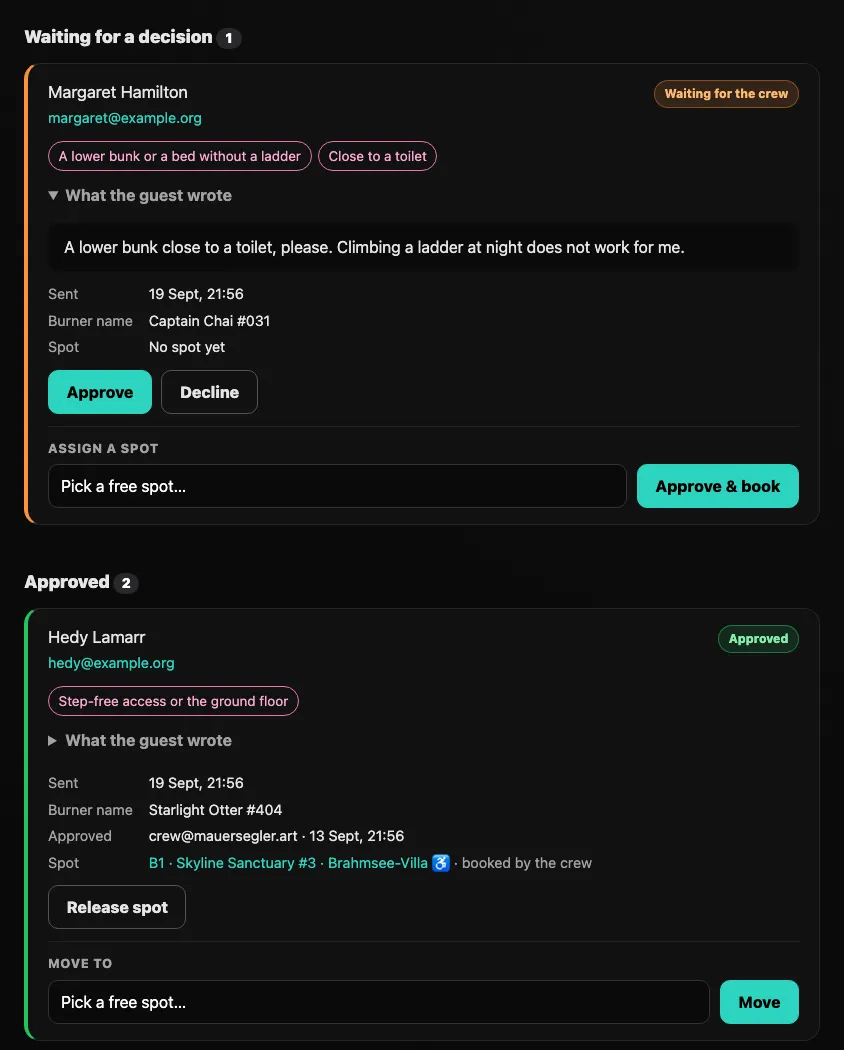
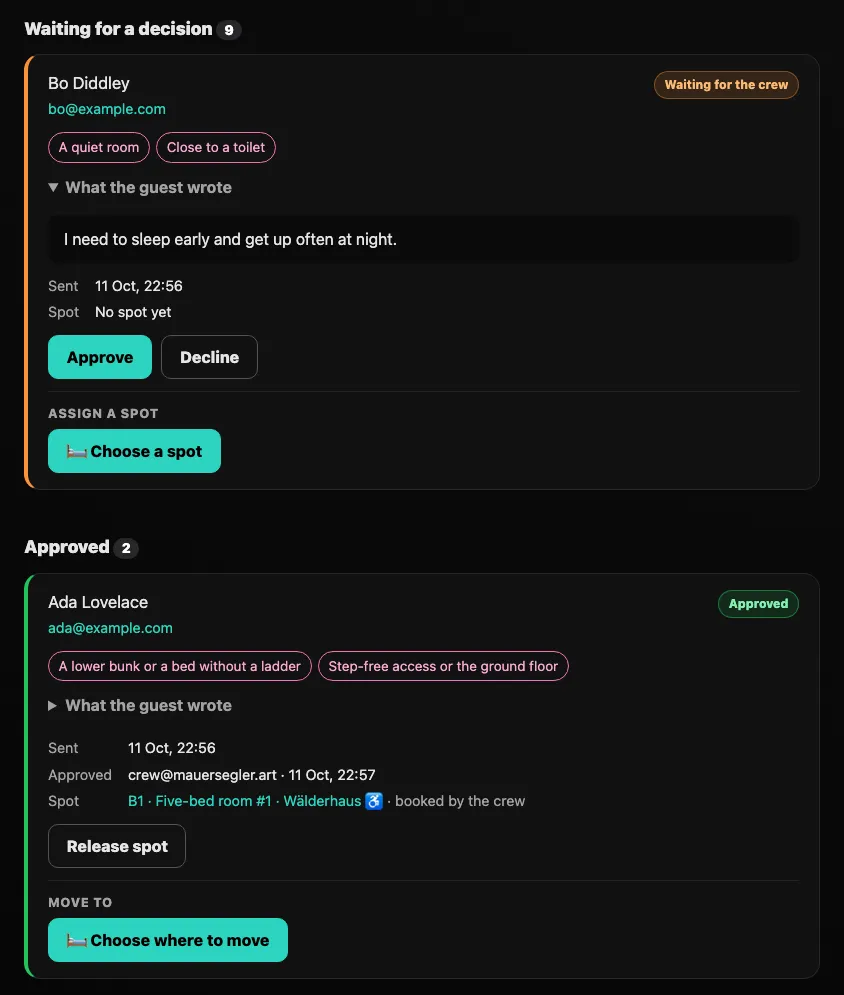
docs: the spot picker and booking a whole group into one room
The admin guide describes the spot picker (search, chips, best fits,
houses → rooms → spots), the group picker with its suggestions, fit and
needs badges and "Book N spots", the plan rows with Change and the swap,
and new screenshots of the requests page and both pickers. Testing and
layout docs name the new tests and the group of five; the guide's group
limit and the "Rules the app keeps" bullet go with the approval-rules
branch.

diff --git a/docs/admin/special-needs.md b/docs/admin/special-needs.md
@@ -24,7 +24,7 @@ On a room page, <kbd>♿ SPECIAL</kbd> marks a spot as a special-needs spot; <kb
 - **Nobody books it on the guest pages**, not even admins signed in with a ticket code. Guests see it like a locked spot, as *Blocked by admin* (violet, with *Not available* under it), and never learn why; a booking sent anyway is refused by the server (*This spot is not available.*). Once a guest has it, it shows as an ordinary occupied spot with their burner name: nobody can tell who has special needs.
 - **Only the crew books it**, here on the requests page: for one request, or for the members of a group. That is the difference to 🔒 *locked*: an admin with a ticket code can still book a locked spot on the room page, never a ♿ one.
 - **It never counts as free**, like a locked spot.
-- **It comes first** in the spot list of a request that asks for something the guest needs; for a request that is only about a project or a group it comes last (see [Decide and book](#_3-decide-and-book)).
+- **It stands out in pink** in the [spot picker](#the-spot-picker), and it comes first among the *Best fits* of a request that asks for something the guest needs; for a request that is only about a project or a group it counts against the spot (see [Decide and book](#_3-decide-and-book)).
 - **Templates keep it** (`"is_special": true` on the spot, see [Layout templates](./templates#file-format)).
 
 Mark the spots before booking opens. Special-needs spots that nobody needs at the end: switch them back to <kbd>♿ NORMAL</kbd> one by one, and guests can book them. The feature *♿ Wheelchair accessible* of a house or room is something else: it describes the place for guests and keeps no spot free.
@@ -42,7 +42,7 @@ Mark the spots before booking opens. Special-needs spots that nobody needs at th
 Only *free* spots are offered for requests. With nothing marked yet, the box says *No spot is marked ♿ yet. Mark spots with ♿ SPECIAL on the room pages: no guest can book them, and they are offered first here.*
 
 ::: tip Fill in the details first
-Which spot fits which need comes from the layout: the **bed type** of a spot and the **features** of its room and house (see [Houses, rooms & spots](./camp-layout#house-details)). A lower bunk in a step-free room with toilets in the building is what a request asking for all three needs; stacked [bunk beds](./camp-layout#bunk-beds) mark their lower and upper level by themselves. Spots nobody described can still be assigned — the list just can't tell you what they answer. What a project asks for — a room of its own, spots close together — is yours to match: the [group planner](#groups) helps with that.
+Which spot fits which need comes from the layout: the **bed type** of a spot and the **features** of its room and house (see [Houses, rooms & spots](./camp-layout#house-details)). A lower bunk in a step-free room with toilets in the building is what a request asking for all three needs; stacked [bunk beds](./camp-layout#bunk-beds) mark their lower and upper level by themselves. Spots nobody described can still be assigned — the picker just can't tell you what they answer. What a project asks for — a room of its own, spots close together — is yours to match: the [group planner](#groups) helps with that.
 :::
 
 ## 2. Open requests
@@ -58,7 +58,7 @@ Every switch goes to the crew group with the admin's e-mail address.
 
 <kbd>♿ Special needs</kbd> in the admin menu, with the number of requests waiting for a decision. On top, the [♿ Special-needs spots](#_1-mark-special-needs-spots) box and the [groups](#groups); below them the requests, grouped into *Waiting for a decision*, *Approved* and *Declined*.
 
-![A waiting request with Approve, Decline and Approve & book, and an approved one with the spot the crew booked](../assets/screenshots/admin-requests.webp)
+![A waiting request with Approve, Decline and Choose a spot, and an approved one with the spot the crew booked](../assets/screenshots/admin-requests.webp)
 
 Each request shows:
 
@@ -74,13 +74,27 @@ The [guest list](./guests) shows for every ticket only *where* a request stands 
 | Button | What happens |
 | --- | --- |
 | <kbd>Approve</kbd> | The request is approved. A guest without a spot hears that the crew picks one; a guest who booked a spot themselves hears they keep it until you book a more fitting one. |
-| <kbd>Approve & book</kbd> · <kbd>Book</kbd> | Pick a free spot from the list and book it for the guest, right away, also in Staging Mode and after booking closed. For a request that asks for something the guest needs (or *something else*), the list starts with *♿ Special-needs spots (2 free)*, each marked ♿ (and 🔒 when locked), then *Other free spots*; for a request that is only about a project or a group, the ♿ spots come last, as *♿ Special-needs spots (kept for access needs)*. Deactivated spots never appear. Each spot says what it answers of **this** request — `B1 · Room 2 · Wälderhaus — ✓ a lower bunk or a bed without a ladder, ✓ step-free access or the ground floor` — and the best fits come first; `✗` marks a clear mismatch, like an upper bunk for someone who needs a lower one. An upper bunk is never *step-free access*, not even on the ground floor of a ♿ house — the ladder is a step — so it gets `✗` for that need as well. The project wishes, *something else* and the old *power socket* get neither `✓` nor `✗`: nothing in the layout answers them, so read what the guest wrote and pick by hand. A feature the crew switched off for one room or spot (*off here* in the [room editor](./camp-layout#room-details)) no longer counts for that spot either. When no ♿ spot is free, a line under the list says why: *♿ No special-needs spot is free right now: 3 marked — 1 booked by a guest, 1 blocked with TAKEN, 1 inactive. See “♿ Special-needs spots” above.* A waiting request is approved on the way. The guest gets a message with the spot and the booking pass. If the guest already holds a spot, the field reads **Move to** and the dialog *Move the guest?* says which spot becomes free. |
-| <kbd>Move</kbd> | Books another spot for the guest; the old one becomes free. |
+| <kbd>🛏 Choose a spot</kbd> → <kbd>Approve & book</kbd> · <kbd>Book</kbd> | Opens the [spot picker](#the-spot-picker): tap a free spot and press the button at its bottom to book it for the guest, right away, also in Staging Mode and after booking closed. The dialog *Book this spot for the guest?* asks first. A waiting request is approved on the way. The guest gets a message with the spot and the booking pass. Cancel the dialog and the card keeps the spot you picked, with <kbd>Approve & book</kbd> (or <kbd>Book</kbd>) to try again and <kbd>Change</kbd> to pick another one. |
+| <kbd>🛏 Choose where to move</kbd> → <kbd>Move here</kbd> | The same for a guest who already holds a spot: the picker shows it as *Now: …*, and the dialog *Move the guest?* says which spot becomes free. |
 | <kbd>Release spot</kbd> | The spot becomes free again (a special-needs spot stays one); the request stays approved, so book another one. The guest gets a message. Also offered for a spot the guest booked themselves: the dialog warns that releasing takes it away from them. |
 | <kbd>Decline</kbd> | The guest gets a message that the crew can't offer a special-needs spot: they keep a spot they booked themselves, or book like everyone else once booking opens. To decline a request whose spot you booked, release the spot first. |
-| <kbd>⋯</kbd> → <kbd>Approve after all</kbd> | On a declined card only, deliberately out of the way (a declined card has no other buttons): the request is approved after all (the guest gets the *approved* message), and the spot list comes back so you can book one. |
+| <kbd>⋯</kbd> → <kbd>Approve after all</kbd> | On a declined card only, deliberately out of the way (a declined card has no other buttons): the request is approved after all (the guest gets the *approved* message), and <kbd>🛏 Choose a spot</kbd> comes back so you can book one. |
 
-With no free spot left, the list says *No free spot left. Free or add one in the room editor.*
+With no free spot left, <kbd>🛏 Choose a spot</kbd> is greyed out and the card says *No free spot left. Free or add one in the room editor.*
+
+### The spot picker
+
+One sheet over the page with every free spot of the camp, house by house and room by room, so you see where you put someone instead of reading a list. On a phone it fills the screen.
+
+![The spot picker for one request: the search, the filter chips, the best fits and the houses with their rooms and spots, one spot picked](../assets/screenshots/admin-requests-picker.webp)
+
+- **On top:** whom the spot is for and what they ticked (pink for something they need, outlined for a project wish), *Now: …* when they hold a spot already, and — for a request with something the guest needs — why no ♿ spot is free, if none is: *♿ No special-needs spot is free right now: 3 marked — 1 booked by a guest, 1 blocked with TAKEN, 1 inactive.* (the [♿ box](#_1-mark-special-needs-spots) lists them all).
+- **Narrow it down:** a search for houses, rooms and spots (*walder 5* finds the rooms 5 of the Wälderhaus; case and accents don't matter), and chips that each show how many free spots they leave: *✓ Fits all they need* (only spots that answer everything the layout can tell of this request), *♿ Special-needs spots*, the wishes guests know from the map — *No ladder*, *Step-free*, *Toilets inside*, *Heated*, *Quiet*, only those some free spot answers — and one chip per house. Chips add up; *Show all* next to the search clears them. On a phone, and on a short laptop screen, each row of chips scrolls sideways.
+- **Best fits:** up to six spots that answer most of the request and clash with none of it, the best first; for a request with something the guest needs a free ♿ spot comes first when it fits as well. A request only a person can match (a project, a group only) gets no strip.
+- **The camp:** each house with its free spots (*41 free · ♿ 2*), each room as a card with *3 of 6 free*, its ♿ spots and the icons of what it offers (♿ ⬇ 🚻 🔥 🤫), and each free spot as a tile: its name, its bed, ♿ in pink for a special-needs spot, 🔒 when locked, and what it answers of **this** request — `✓ No ladder`, `✓ Step-free`; `✗` marks a clear mismatch, like an upper bunk for someone who needs a lower one, and such a tile is dimmed. A bunk bed whose two levels are both free is one tile with the upper level above the lower one. An upper bunk is never *step-free*, not even on the ground floor of a ♿ house — the ladder is a step. The project wishes, *something else* and the old *power socket* get neither `✓` nor `✗`: nothing in the layout answers them, so read what the guest wrote and pick by hand. A feature the crew switched off for one room or spot (*off here* in the [room editor](./camp-layout#room-details)) no longer counts for that spot. Deactivated and taken spots never appear.
+- **At the bottom:** the spot you tapped with what it answers, *Cancel*, and the button that takes it — <kbd>Approve & book</kbd>, <kbd>Book</kbd> or <kbd>Move here</kbd> on a request's card, <kbd>Use this spot</kbd> in a group's plan. Picking a ♿ spot for a request that needs none says *♿ A special-needs spot, kept for guests who need one.*
+
+<kbd>Esc</kbd>, ✕, *Cancel* or a tap next to the sheet close it without a change. Without JavaScript, each card shows a plain list of the free spots instead (the best fits first, ♿ spots marked).
 
 ### Groups
 
@@ -88,21 +102,29 @@ Guests who ask together share a **request group**: one of them starts it on the 
 
 The section **Groups 👥** sits above *Waiting for a decision*, one card per group:
 
-- **The header:** *👥 name*, *4 of 12 · code ABCD-EF23 · started …*, and chips for what is in it: *2 waiting*, *1 approved*, *1 declined*, *1 booked by the crew*, ♿ *2 with something they need* (pink, only when someone ticked a need) and 🎨 *project* (when someone asked for a room or for spots together). The card's left edge is orange while someone waits, green when someone is approved and nobody waits, grey otherwise.
+- **The header:** *👥 name*, *4 of 5 · code ABCD-EF23 · started …*, and chips for what is in it: *2 waiting*, *1 approved*, *1 declined*, *1 booked by the crew*, ♿ *2 with something they need* (pink, only when someone ticked a need) and 🎨 *project* (when someone asked for a room or for spots together). The card's left edge is orange while someone waits, green when someone is approved and nobody waits, grey otherwise.
 - **The members:** the name from the ticket list (or *Ticket without a name*) · 🔥 the burner name, the status, the spot (*booked by the crew* or *booked by the guest*) or *No spot yet*, <kbd>Details ↓</kbd> to the member's own card, and <kbd>⋯</kbd> → <kbd>Take out of group</kbd>.
 
 | Button | What happens |
 | --- | --- |
-| <kbd>Approve all waiting (2)</kbd> | Every waiting member is approved; each guest gets their own *approved* message. Members you already decided stay as they are. Then book their spots in the planner, or one by one. |
+| <kbd>Approve all waiting (2)</kbd> | Every waiting member is approved; each guest gets their own *approved* message. Members you already decided stay as they are. Then book their spots with the planner, or one by one. |
 | <kbd>Decline group</kbd> | Every waiting member, and every approved one without a spot the crew booked, is declined; each guest gets the *declined* message. Members whose spot the crew booked stay approved and are counted in the dialog: release their spot first. |
-| <kbd>Book 4 spots</kbd> | Books the spots picked in the planner (below). |
+| <kbd>🏠 Choose a room for the group</kbd> | Opens the spot picker for the whole group: put everyone into one room in one go (below). |
+| <kbd>Book 4 spots</kbd> | Books the spots of the plan (below). |
 | <kbd>⋯</kbd> → <kbd>Take out of group</kbd> | The request stays as it is, without the group. The guest sees that on their request page and gets no message. Their ticket can't join this group again, not even with its code — also not after withdrawing and sending a new request: the form says *You can't join this group. Please contact the crew.* |
 
-Each button asks first, and the group buttons only touch open requests. **Book spots for the group** is the planner at the bottom of the card:
+Each button asks first, and the group buttons only touch open requests. **Book spots for the group** is the planner at the bottom of the card. It starts with a plan, *Plan: Room 2 · Wälderhaus — 6 free (♿ 2) · fits all 5*: the snuggest place that fits everyone and gives every member what the layout can tell of their needs (a room before a whole house), else the place that fits everyone and answers most of those needs, else *Anywhere: the best free spot for each*. In that place, members with something they need choose first, each gets the best fitting free spot, a ♿ spot goes to a member who needs something and is avoided for the others, and in a whole house the group fills as few rooms as it can.
 
-- **Where:** lists the places the group could sleep: *Anywhere: the best free spot for each*, then the rooms that fit everyone, the snuggest first (`Room 2 · Wälderhaus — 6 free (♿ 2) · fits all 5`), then whole houses (`Wälderhaus, whole house — …`), then the rest, the roomiest first (`· too small`). A place that only fits everyone by giving ♿ spots to members who need nothing comes after the places that fit without, marked `· uses ♿`, so the first choice spares the ♿ spots when it can. Picking one fills in a proposal: members with something they need choose first, each gets the best fitting free spot there, a ♿ spot goes to a member who needs something and is avoided for the others, and in a house the group fills as few rooms as it can. The choice needs JavaScript; without it the page shows the proposal for the first place that fits everyone (or *Anywhere*).
-- **One row per member** with the same spot list as on the single cards, starting with *Keep as is*. Change any row by hand. A member whose spot the crew already booked shows *Keep … (booked by the crew)* and stays there unless you pick another spot; a declined member shows *Declined — not booked.* When everyone not declined already has a spot the crew booked, the planner says so and has no button.
-- <kbd>Book 4 spots</kbd> (the number of rows with a spot) asks *Book 4 spots for the group?* and lists who gets which spot, how many move from a spot they booked themselves and how many waiting requests are approved on the way; it says so when booking is closed. Each guest gets their own message with the booking pass. Rows left on *Keep as is* don't change.
+**Put the group into one room, in one go:** <kbd>🏠 Choose a room for the group</kbd> opens the [spot picker](#the-spot-picker) for the whole group. On top, who gets a spot (with what they need) and who keeps a spot the crew booked. *Suggested for 5* offers the three places that fit everyone — those where the plan answers every member's needs first, with *✓ needs met* or *needs: 1 of 2 met* under each — and *Anywhere: the best free spot for each*. Every room card says *fits all 5* (green), *fits all 5 · uses ♿* (pink: only by giving ♿ spots to members who need nothing) or *too small for 5*, and *✓ needs met* or *needs: 1 of 2 met* where everyone fits; the chip *Rooms for all 5* hides the rest. <kbd>Put the group here</kbd> on a room (or <kbd>Spread over the house</kbd> on a house) writes each member's name on the spot the plan gives them and lists who goes where at the bottom, with what each spot answers of theirs; a room that is too small places as many as it can and says *→ no spot left here* for the others. Then:
+
+- <kbd>Book 5 spots</kbd> books the plan right away: the dialog asks *Book 5 spots in Room 2 · Wälderhaus?* (or *… for the group?* when the spots are in several rooms) and names who gets which spot.
+- <kbd>Edit the plan</kbd> takes the plan into the card, to change single rows first.
+
+![The spot picker for a group: the suggested places, a room chosen with the members' names on its spots, and who goes where at the bottom](../assets/screenshots/admin-requests-group-picker.webp)
+
+**One row per member:** *→ B1 · Room 2 · Wälderhaus · ✓ No ladder* with <kbd>Change</kbd> and <kbd>✕</kbd>. <kbd>Change</kbd> opens the spot picker for that member alone; the spots of the other members carry their names (*→ Bo*), and picking one of them swaps the two. <kbd>✕</kbd> sets the row back to *Keep as is*. A member whose spot the crew already booked shows *Keeps … (booked by the crew)* and stays there unless you pick another spot for them; a declined member shows *Declined — not booked.* Once you change a row, the plan line says *· changed by hand*. When everyone not declined already has a spot the crew booked, the planner says so and has no button. Without JavaScript, each row is a plain list of the free spots, starting with *Keep as is*, filled with the plan.
+
+<kbd>Book 4 spots</kbd> (the number of rows with a spot) asks first and lists who gets which spot, how many move from a spot they booked themselves and how many waiting requests are approved on the way; it says so when booking is closed. Each guest gets their own message with the booking pass. Rows left on *Keep as is* don't change.
 
 Before anything is booked, the server checks every picked spot once more. A spot taken meanwhile, two members on one spot, a member who left the group or a declined member stop the whole booking, and nothing is booked (see [When something doesn't work](#when-something-doesn-t-work)). Then it books member by member, like <kbd>Book</kbd> on each card, so those spots are fixed like any spot the crew booked. If one fails on the way — a request withdrawn, a spot taken in the very last second — the others stay booked and a warning says *3 of 4 spots booked. Not booked: …* with the name and the reason: book the rest on their own cards.
 
@@ -153,7 +175,7 @@ What guests write is often **health data**. The app treats it that way; please d
 - **Only admins can read it**, here and nowhere else: the [guest list](./guests) and the bookings list show at most that a request exists and how it was decided, never what was written. What guests tick and write is stored encrypted, so the PocketBase dashboard and backups only hold unreadable text. The pages are sent with `Cache-Control: no-store`.
 - **It never leaves the admin area:** not in e-mails, Telegram messages, the crew group, logs or the audit log. Neither do group names and codes.
 - **Don't copy it** into chats, e-mails or spreadsheets. Talk about a request in person, and decide based on what the guest needs, not why.
-- **Group members see the group, not each other's requests.** A member sees the group's name, *n of 12* and the burner names of everyone in it (the burner name from the request, else *A fellow burner*) — never tickets, e-mail addresses, names from the ticket list, what anyone ticked or wrote, a status or decision, or a spot. Everyone is listed whatever their status, so a decline can't be read off the list; a booked spot only shows the way every booked spot does, with its burner name on the room page. A guest who types a code learns nothing about the group before sending the form. The group's name is stored encrypted; its code — 8 characters from the booking pass alphabet, shown like `ABCD-EF23` — and who is in which group are stored plainly, like a pass code: social ties, not health data, and the privacy policy says so.
+- **Group members see the group, not each other's requests.** A member sees the group's name, *n of 5* and the burner names of everyone in it (the burner name from the request, else *A fellow burner*) — never tickets, e-mail addresses, names from the ticket list, what anyone ticked or wrote, a status or decision, or a spot. Everyone is listed whatever their status, so a decline can't be read off the list; a booked spot only shows the way every booked spot does, with its burner name on the room page. A guest who types a code learns nothing about the group before sending the form. The group's name is stored encrypted; its code — 8 characters from the booking pass alphabet, shown like `ABCD-EF23` — and who is in which group are stored plainly, like a pass code: social ties, not health data, and the privacy policy says so.
 - **A code got around?** Anyone with it can join while requests are open, and the members then see a burner name they don't know. Take the stranger out with <kbd>⋯</kbd> → <kbd>Take out of group</kbd>: their ticket can't join this group again, and you decide their request like any other. A group's code can't be changed.
 - **Guests give explicit consent** with a checkbox when they send a request (Art. 9(2)(a) GDPR); the time is stored. The same checkbox covers what a group shows its members (Art. 6(1)(a) GDPR). The privacy policy (`/privacy#special-needs`, section *Special-needs requests and groups*) explains it; see [Legal pages](./legal). The checkbox reads: *I agree that the CozyNights crew uses what I write here to find a fitting spot for me. It may include information about my health. Only the crew's admins can read it; it is stored encrypted and deleted after the event at the latest. If I start or join a group, everyone in it sees the group's name and my burner name, never what I ticked or wrote. I can leave the group and withdraw my request on this page at any time. Details: privacy policy.* (the link opens the policy's section). Keep the text, the policy and this page in step.
 - **A ticket passed on** to a new holder loses its request the same way, and with it its place in a group, when you hand it over on the [Tickets](./tickets) page (🔁 *Ticket passed on to someone else*, or 🔁 *New holder* in the ticket list review); a spot the crew booked stays with the ticket as an ordinary booking. The server's `tickets import` refuses a changed address on such a ticket unless it is run with `--hand-over`, which deletes the request the same way.
@@ -165,12 +187,12 @@ What guests write is often **health data**. The app treats it that way; please d
 | --- | --- | --- |
 | Guests see no link on the map | Requests are closed. | Open them (Control Center or requests page). |
 | *Requests are closed right now* for a guest | The switch is off. | Open requests, or book a spot for them another way. |
-| *This spot is already claimed. Pick another spot.* | Someone was faster, or the list was old. | Reload the page and pick another spot. |
+| *This spot is already claimed. Pick another spot.* | Someone was faster, or the page was old. | Reload the page and pick another spot. |
 | *This request does not exist anymore* | The guest withdrew it meanwhile. | Reload the page. |
 | *The guest withdrew the request meanwhile. The spot is booked for the ticket anyway; release it on the room page if it should be free.* | The guest withdrew while you were booking. | The ticket keeps the spot as an ordinary booking. Release it on the room page if it should be free. |
 | *This request is declined. Approve it first, then assign a spot.* | Another admin declined the request while you were booking. | Reload the page; on the declined card, <kbd>⋯</kbd> → <kbd>Approve after all</kbd>, then <kbd>Book</kbd>. |
 | *This spot is not available. Pick another spot.* · *This spot doesn't exist anymore. Reload the page.* | The spot was deactivated or deleted meanwhile. | Reload the page and pick another spot. |
-| A ♿ spot is missing from the list, or *♿ No special-needs spot is free right now: …* | The spot is booked, blocked with 🔄 TAKEN or inactive; the line under the list says how many of each. | Open *♿ Special-needs spots* → <kbd>Show all</kbd>, follow the link to the room and free, release or activate the spot. |
+| A ♿ spot is missing from the spot picker, or *♿ No special-needs spot is free right now: …* | The spot is booked, blocked with 🔄 TAKEN or inactive; the line at the top of the picker says how many of each. | Open *♿ Special-needs spots* → <kbd>Show all</kbd>, follow the link to the room and free, release or activate the spot. |
 | An admin with a ticket can't book a ♿ spot on the room page | ♿ spots are only booked through requests, by the crew. | Book it here for an approved request, or switch it to <kbd>♿ NORMAL</kbd>. |
 | *… is not free anymore, so nothing was booked. Reload the page and pick again.* · *A picked spot doesn't exist anymore, so nothing was booked. …* | A spot in the group planner was taken, deactivated or deleted after the page loaded. | Reload the page and pick again; nothing was booked. |
 | *Two members got the same spot. Pick a different one for each.* | Two rows of the planner have the same spot. | Change one of them. |
@@ -178,7 +200,7 @@ What guests write is often **health data**. The app treats it that way; please d
 | *…'s request is declined: approve it first, or leave their spot on Keep as is.* | A declined member has a spot picked in the planner. | Set their row to *Keep as is*, or approve them after all on their own card. |
 | *Nothing to change: no request in this group waits for this. Reload the page.* | Another admin decided the group's requests meanwhile. | Reload the page. |
 | Warning *3 of 4 spots booked. Not booked: …* | One member's booking failed on the way, for the reason given; the others are booked. | Book the rest on their own cards. |
-| A guest says their group code doesn't work | *No group has this code*: a typo, or the group was deleted when its last member left. *This group doesn't exist anymore*: it went while they were joining. *This group is full*: 12 are in it. *Too many wrong group codes*: five misses within 15 minutes. *You can't join this group*: the crew took this ticket out of the group. | Compare it with the code on the group's card (upper or lower case, spaces and dashes don't matter). A deleted group can't come back: someone starts a new one. For a full group, take someone out or let them start a second group. A ticket taken out stays out of that group; it can start a group of its own. |
+| A guest says their group code doesn't work | *No group has this code*: a typo, or the group was deleted when its last member left. *This group doesn't exist anymore*: it went while they were joining. *This group is full*: 5 are in it (or more, from before the limit went down). *Too many wrong group codes*: five misses within 15 minutes. *You can't join this group*: the crew took this ticket out of the group. | Compare it with the code on the group's card (upper or lower case, spaces and dashes don't matter). A deleted group can't come back: someone starts a new one. For a full group, take someone out or let them start a second group. A ticket taken out stays out of that group; it can start a group of its own. |
 | A guest reports *You sent your request 10 times within an hour…* | The form's limit. | Nothing to do: it works again within the hour. |
 | *(nothing readable)* instead of the text | The server's encryption key changed since the request was sent. | Ask the guest to send the request again. |
 | *Nothing written: they asked as part of a group.* instead of the text | A group member who ticked nothing and wrote nothing of their own: joining a group needs neither. | Nothing to do. |

diff --git a/docs/develop/layout.md b/docs/develop/layout.md
@@ -35,9 +35,9 @@ CI splits it into six parts that run side by side: Chromium in two, WebKit in fo
 
 **What is switched off while measuring.** Pages are opened with reduced motion, and a test-only stylesheet (`MEASURE_CSS` in `pages.test.ts`) hides the two decorative full-screen layers (the ambient background and the cursor-trail canvas) and turns off shadows and CSS transitions. None of that moves text — shadows take up no room, the layers are fixed and show no text under reduced motion — but WebKit on Linux paints in software and redraws all of it at every width, which made the WebKit part several times slower than Chromium. For the same reason the WebKit project paints with WebKit's CPU painter instead of the software GPU (`WEBKIT_SKIA_ENABLE_CPU_RENDERING`, Linux only). Without transitions the sweep also measures where a box ends up, not a point on its way there.
 
-**The stress camp** (`tests/layout/stress-data.ts`) is built once per run (in CI once per part): houses on all four edges of the map, a 95-character house name, a 34-letter compound word, a room number of 9999, spot labels up to 50 characters, burner names up to the 80-character limit, a 34-letter burner name, emoji, an 87-character e-mail address, special-needs requests in a full request group (12 people, a 40-character group name with the 34-letter word, 80-character burner names) and in a smaller group that still shows its invite link, and ♿ spots in every state the requests page knows (free, booked through a request, booked by a guest, blocked with TAKEN, inactive). Every text is checked against the limits the app accepts, so the camp stays realistic.
+**The stress camp** (`tests/layout/stress-data.ts`) is built once per run (in CI once per part): houses on all four edges of the map, a 95-character house name, a 34-letter compound word, a room number of 9999, spot labels up to 50 characters, burner names up to the 80-character limit, a 34-letter burner name, emoji, an 87-character e-mail address, special-needs requests in a full request group (5 people, a 40-character group name with the 34-letter word, 80-character burner names) and in a smaller group that still shows its invite link, and ♿ spots in every state the requests page knows (free, booked through a request, booked by a guest, blocked with TAKEN, inactive). Every text is checked against the limits the app accepts, so the camp stays realistic.
 
-**The pages** (`tests/layout/pages.test.ts`): start page, map (also after *Look around* once booking is closed), house and room (with and without an own spot, with the booking dialog open, elsewhere in the camp with the booking pass in the *You already have a spot* banner, and after the crew checked the guest in), random spot, special needs (sent, refused, in a group with its invite link, leaving the group, opened from an invite link), booking pass, legal pages, the admin dashboard, house and room editors, tickets (search, ticket list review), layout templates (review), special-needs requests (with the confirm dialog, the group cards with a ⋯ menu open, the group booking's confirmation and the ♿ spots list), message texts and the pass check — each as the right guest or admin, and where it matters in every phase: Staging, Live, Closed, and with the opening or closing timer armed (the countdowns).
+**The pages** (`tests/layout/pages.test.ts`): start page, map (also after *Look around* once booking is closed), house and room (with and without an own spot, with the booking dialog open, elsewhere in the camp with the booking pass in the *You already have a spot* banner, and after the crew checked the guest in), random spot, special needs (sent, refused, in a group with its invite link, leaving the group, opened from an invite link), booking pass, legal pages, the admin dashboard, house and room editors, tickets (search, ticket list review), layout templates (review), special-needs requests (with the spot picker open and a spot picked, the confirm dialog, the group cards with a ⋯ menu open, the group booking's confirmation, the picker for a whole group with a room chosen and the ♿ spots list), message texts and the pass check — each as the right guest or admin, and where it matters in every phase: Staging, Live, Closed, and with the opening or closing timer armed (the countdowns).
 
 **The check** (`tests/layout/layout-check.ts`) runs inside the browser at every width from 320 to 1440 px and measures the rendered text:
 

diff --git a/docs/develop/testing.md b/docs/develop/testing.md
@@ -15,7 +15,7 @@ It needs Node, a running Docker (Docker Desktop on a Mac) and, for the layout te
 | Layer | Command | Needs | What it proves |
 | --- | --- | --- | --- |
 | Type check | `npm run check` | – | The code compiles; Svelte components and server code agree on their types. |
-| Unit | `npm test` | – | The logic in isolation, PocketBase mocked: admin sign-in flow and session handling, role checks, booking rules, encryption, rate limit, special-needs requests and request groups — the form with its group choice, ♿ spots bookable only through a request, start/join/leave, group decisions and bookings, what a member sees of the group, the group planner's proposals (`tests/special-needs.test.ts`, `tests/request-groups.test.ts`, with the in-memory stand-in `tests/fake-pb.ts`), and every guest message text for each mix of spot change and request news (`tests/notify-messages.test.ts`), including the message texts admins change (`tests/message-texts.test.ts`), the live numbers of the control center with their snapshot cache, ETag and poll rules (`tests/live-stats.test.ts`) and what the Intel panel makes of them — Berlin-time buckets, filters, the house table, the attention list (`tests/intel.test.ts`), how a refused form points at its fields (`tests/field-alert.test.ts`), the guest session: dead codes, the round stamp, an unreachable PocketBase (`tests/guest-session.test.ts`), the QR picture PocketBase draws for the e-mails — pixel for pixel the app's `qr.png`, and its copy of the `qr` library the installed version (`tests/pass-qr-hook.test.ts`) — and that every form action a page posts to (`?/name`, `/admin?/name`) exists on the page the post lands on (`tests/form-actions.test.ts`). Fast (< 1 s) — run it all the time. |
+| Unit | `npm test` | – | The logic in isolation, PocketBase mocked: admin sign-in flow and session handling, role checks, booking rules, encryption, rate limit, special-needs requests and request groups — the form with its group choice, ♿ spots bookable only through a request, start/join/leave, group decisions and bookings, what a member sees of the group, the group planner's proposals and which places it suggests first, the spot picker's houses, rooms, search and filters (`tests/special-needs.test.ts`, `tests/request-groups.test.ts`, `tests/spot-picker.test.ts`, with the in-memory stand-in `tests/fake-pb.ts`), and every guest message text for each mix of spot change and request news (`tests/notify-messages.test.ts`), including the message texts admins change (`tests/message-texts.test.ts`), the live numbers of the control center with their snapshot cache, ETag and poll rules (`tests/live-stats.test.ts`) and what the Intel panel makes of them — Berlin-time buckets, filters, the house table, the attention list (`tests/intel.test.ts`), how a refused form points at its fields (`tests/field-alert.test.ts`), the guest session: dead codes, the round stamp, an unreachable PocketBase (`tests/guest-session.test.ts`), the QR picture PocketBase draws for the e-mails — pixel for pixel the app's `qr.png`, and its copy of the `qr` library the installed version (`tests/pass-qr-hook.test.ts`) — and that every form action a page posts to (`?/name`, `/admin?/name`) exists on the page the post lands on (`tests/form-actions.test.ts`). Fast (< 1 s) — run it all the time. |
 | Integration | `npm run test:integration` | Docker | The **database**: a real, empty PocketBase applies `pb_migrations/` and loads `pb_hooks/`; then availability, schema, read/write, API rules, admin roles, booking service. |
 | Smoke | `npm run test:smoke` | Docker | The **whole app**: the same Docker image staging builds, driven over HTTP — guest login, booking, admin area protection, superuser-only actions. |
 | Layout | `npm run test:layout` (part of `verify`) | Docker, Playwright browsers | The **rendered pages**: every guest and admin page with awkward names (80-character burner names, compound words, long e-mail addresses) at every width from 320 to 1440 px, in Chromium and WebKit — no squeezed, cut-off, pushed-out or covered text. See [Layout](./layout). |

diff --git a/docs/reference/architecture.md b/docs/reference/architecture.md
@@ -179,7 +179,7 @@ erDiagram
 | `/admin/house/:id` | admins | Rooms of a house, and who is booked in it |
 | `/admin/room/:id` | admins | Spots of a room, with the booking on each |
 | `/admin/check` | admins | Check guests in with their booking pass (typed code, USB scanner or camera), undo a check-in |
-| `/admin/requests` | admins | Special-needs requests and request groups: what became of the ♿ spots, read, approve or decline, book a spot (also while booking is closed) for one request or a whole group, take a request out of its group, open or close requests |
+| `/admin/requests` | admins | Special-needs requests and request groups: what became of the ♿ spots, read, approve or decline, book a spot (also while booking is closed) for one request or a whole group — picked in the spot picker, houses, rooms and spots to search and filter, a whole group into one room in one go — take a request out of its group, open or close requests |
 | `/admin/messages` | admins | Message texts: every sentence guests get by e-mail, on Telegram and from the bot, with a preview of whole messages |
 | `/admin/tickets` | admins | Find tickets, change their e-mail address, hand them over; superusers load the ticket list |
 | `/admin/docs/*` | admins | The full documentation, admin pages included |
